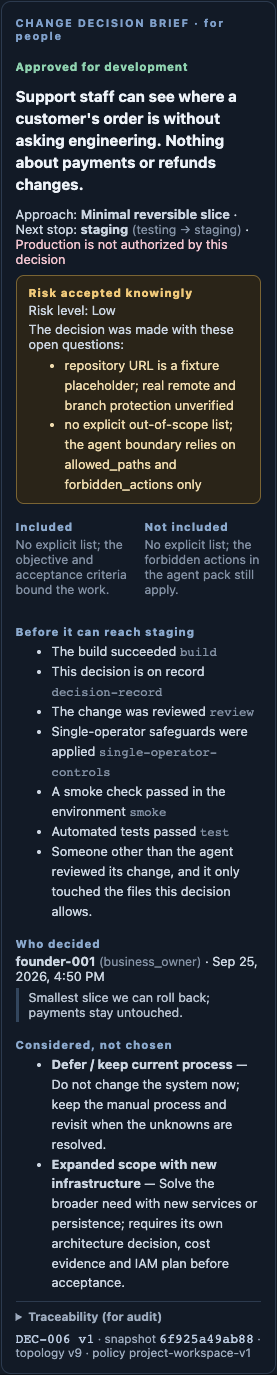
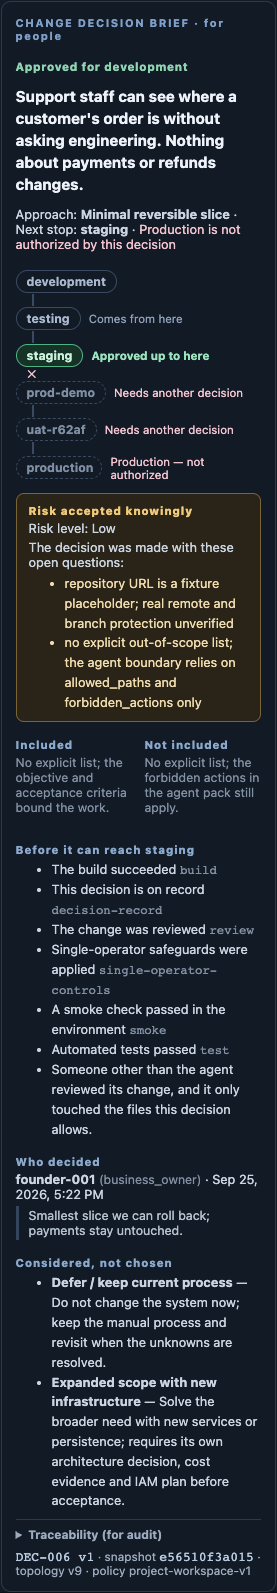
evidence(EB-013): refresh at 9f5b3ff — route diagram and localised advisor wording
Re-ran go/frontend/browser (13/13, system Chrome) and fixture hashes at
9f5b3ff; new en/zh-TW screenshots. DR-012 records the two owner-requested
follow-ups and the remaining English server text. Human review pending.
CI not run; evidence is local.

diff --git a/evidence/EB-013/README.md b/evidence/EB-013/README.md
@@ -1,7 +1,7 @@
 # EB-013 — Change Decision Brief v2: reader-ordered, human-written owner summary, localised labels
 
 - Checked at: 2026-09-25 Asia/Taipei
-- Source commit: `59b3197` (feat/brief-readability)
+- Source commit: `9f5b3ff` (feat/brief-readability; builds on `59b3197`)
 - Decision: `decisions/DR-012-brief-readability.json` — `ACCEPTED_FOR_DEVELOPMENT`
 - Origin: [readability review of the CHG-001 Brief and Receipt](../../docs/reviews/CONTEXT_RAIL_BRIEF_READABILITY_REVIEW_2026-09-25.zh-TW.md), items 1–3
 - Review: AI-assisted implementation with automated evidence; **human review pending** (see [HUMAN_REVIEW_PACKET.zh-TW.md](HUMAN_REVIEW_PACKET.zh-TW.md))
@@ -13,14 +13,16 @@
 2. **Reader-question order.** The Brief opens with the owner summary, then the approach (option title, not id), next stop and "Production is not authorized by this decision", then accepted risk (a warning box when unknowns exist), included / not included, what must happen before the next environment (evidence codes with plain labels, code kept beside), who decided (local time, ISO in the tooltip, rationale quoted), and alternatives not chosen.
 3. **Machine identity moves down.** Decision/Change/option ids, technical objective, transition → target ref, full snapshot and topology hashes and policy sit in a collapsed *Traceability (for audit)* block; the lineage strip stays at the foot.
 4. **Older decisions are not rewritten.** A decision without `owner_summary` shows *No plain-language summary was supplied* and prints the technical objective unedited.
-5. **Locale.** The renderer emits `change-decision-brief/v2` structured values; headings and labels follow zh-TW / en, data values read back unchanged.
+5. **Route diagram.** The decision records the promotion path of its bound topology version; the Brief draws it top to bottom — *comes from here*, *approved up to here* (green), a ✕ after the target, then later environments dashed as *needs another decision* and production as *not authorized*. A decision without a recorded path shows only source and target, with a note.
+6. **System wording in the reader's language.** RuleAdvisor's options and unknowns come from a coded table; zh-TW shows them in Chinese (also in the decision form and decision card). Owner summary, rationale and any uncoded text (a model's unknowns) are shown as recorded.
+7. **Locale.** The renderer emits `change-decision-brief/v2` structured values; headings and labels follow zh-TW / en, data values read back unchanged.
 
 ## Result
 
 | Check | Result | File |
 | --- | --- | --- |
-| `go vet ./...`, `go test ./...` (Brief v2 assertions, owner_summary NEEDS_INPUT, missing-summary flag, Brief/Pack lineage parity, STALE reason) | PASS | `go-test-output.txt` |
-| Frontend typecheck / build / unit tests (27: +2 Brief tests — DOM order with trace closed, missing-summary notice; dictionary coverage) | PASS | `frontend-quality-output.txt` |
+| `go vet ./...`, `go test ./...` (Brief v2 assertions, owner_summary NEEDS_INPUT, missing-summary flag, promotion path order, rule-advisor codes, Brief/Pack lineage parity, STALE reason) | PASS | `go-test-output.txt` |
+| Frontend typecheck / build / unit tests (30: +5 Brief tests — DOM order with trace closed, missing-summary notice, path places, path-less fallback, zh-TW coded wording vs recorded text; dictionary coverage) | PASS | `frontend-quality-output.txt` |
 | Browser: all 13 journeys on a fresh state dir, system Chrome | 13 PASS | `browser-output.txt` |
 | Consumer fixture trees byte-identical before/after | PASS | `mutation-check.txt` |
 | Visual: accepted Brief with unknowns, en and zh-TW | — | `brief-en.png`, `brief-zh-TW.png` |
@@ -29,6 +31,8 @@
 
 - Readability is shown by structure and screenshots, not by readers. The three-question role test (review item 6, G5) is still open and is the real acceptance for "human-readable".
 - Receipt conclusion-first layout and a reviewer Technical Report (review items 4–5) are not in this slice.
+- Other server-generated text — missing-input reasons, observations, gate details — is still English in zh-TW; only rule-advisor options and unknowns are coded.
+- The screenshots' owner summary and rationale are English because the seeded demo data was written in English; they are shown as recorded. `uat-…` in the path is an environment an earlier browser journey adds.
 - Evidence-code labels cover the nine codes current topologies use; others render as the code.
 - The EB-012 CHG-001 decision predates `owner_summary` and shows the missing-summary notice.
 - Brief JSON changed from v1 (`headline`, `sections`) to v2; no other consumer in the repo reads v1.
